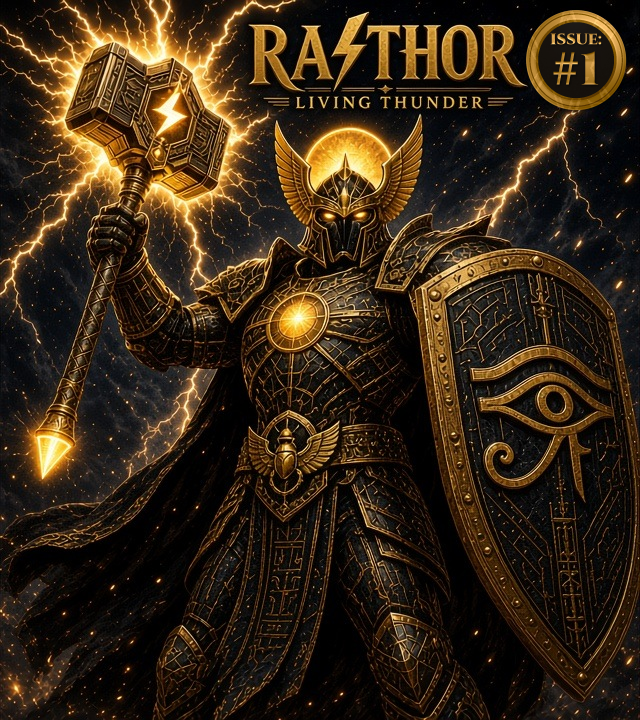
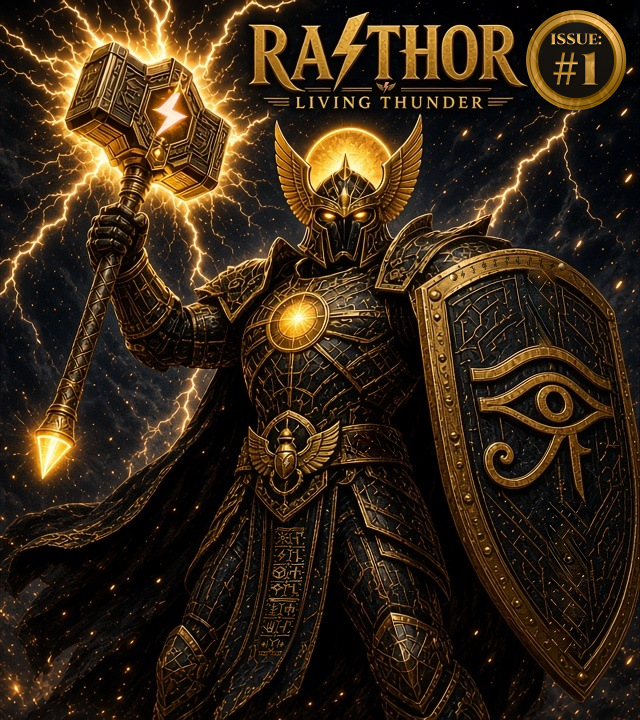
ISSUE01-COVER-MARK-1: winged-bolt cover mark, artifact sweep, tabard Easter egg (#88)
* ISSUE01-COVER-MARK-1: winged-bolt cover mark, artifact sweep, tabard Easter egg

- Replace BIBLE_FINAL_master.png and the 300 dpi print (same filenames) with the
  cover-mark + artifact-sweep + tabard v5 version (Sherif: mark 1:26 AM ET, 'Excellent!' 2:10 AM ET)
- Add production/ISSUE_01/bible/cover_mark/ (mark, gold AGI logo, rune key, before/after crops)
- BIBLE_FINAL_SHA256.txt: new hashes, previous master/print kept as superseded comments
- CHARACTER_BIBLE.md: §4 cover mark + publisher logo; §8 artifact-sweep rulings + Easter-egg cipher

* ISSUE01-COVER-MARK-1: rebuild print without mirrored shield in the bleed

The v2 extension mirrored the master's edge pixels, so the shield rim (right edge), cape, hammer pommel glow
and lightning (left edge) and the legs/shield tip (bottom) were reflected into the extension and bleed.
The print is rebuilt with sky-only extensions; the art area is unchanged (straight upscale).
New print sha256 2f92504c…; BIBLE_FINAL_SHA256.txt updated (superseded lines kept).

* ISSUE01-COVER-MARK-1: frame the print with lotus-capital gold columns (Wild ruling)

- Print file (same filename): two antique-gold lotus-capital columns (visible shaft ~122 px, ~6.1% of trim)
  with a bottom lintel; top left open and feathered. Shield, hammer haft + pommel and the ISSUE #1 seal stay
  in front; lightning glow over the left column; warm upper-left light; graded to the title gold.
[…]

diff --git a/production/ISSUE_01/bible/CHARACTER_BIBLE.md b/production/ISSUE_01/bible/CHARACTER_BIBLE.md
@@ -10,9 +10,9 @@
 |---|---|
 | Master | `BIBLE_FINAL_master.png` (640 × 720 px) |
 | Source render | `real_v1.jpg` (640 × 720 px), kept unchanged as the provenance file |
-| Difference from the source | Two edits only, checked pixel by pixel. (1) The issue seal (about x 518–633, y 2–117): the rayed-sun seal was removed, the sky patched, and the Cinzel gold-coin `ISSUE: #1` seal placed. (2) A stray diamond sparkle above the T of THOR (about x 370–389, y 11–24) was removed at Sherif's request (2026-10-15, about 1:23 AM ET). Every other pixel is identical to `real_v1.jpg`. |
-| Print file | `RaThor_Issue01_Cover_BIBLE_FINAL_6.625x10.25_bleed_300dpi.jpg`: 2063 × 3150 px at 300 dpi (6.625 × 10.25 in trim plus 0.125 in bleed). The art fills the trim width. The dark storm is extended above and below by mirroring, blurring and darkening. There are no cream bands, nothing is stretched, and nothing is cropped from the sides. |
-| Checksums | `BIBLE_FINAL_SHA256.txt`. The three image files in this folder verify with `sha256sum -c` (also with `--strict`). `BIBLE_FINAL_compare.jpg` and the four `real/*.py` build scripts are listed only as comment lines, marked "(held outside repo, in the bot store issue01_bible/)". |
+| Difference from the source | (Before ISSUE01-COVER-MARK-1.) Two edits only, checked pixel by pixel. (1) The issue seal (about x 518–633, y 2–117): the rayed-sun seal was removed, the sky patched, and the Cinzel gold-coin `ISSUE: #1` seal placed. (2) A stray diamond sparkle above the T of THOR (about x 370–389, y 11–24) was removed at Sherif's request (2026-10-15, about 1:23 AM ET). Every other pixel is identical to `real_v1.jpg`. ISSUE01-COVER-MARK-1 (2026-10-15) then added the winged-bolt cover mark (§4), the council artifact-sweep fixes and the tabard Easter egg (§8); before/after crops are in `cover_mark/`. |
+| Print file | `RaThor_Issue01_Cover_BIBLE_FINAL_6.625x10.25_bleed_300dpi.jpg`: 2063 × 3150 px at 300 dpi (6.625 × 10.25 in trim plus 0.125 in bleed). The art fills the trim width. The dark storm is extended above and below, and into the side bleed, with sky only (blurred reflected sky, plus sky-plate smoke, sparks and lightning). No figure part (shield, cape, hammer, legs) is ever mirrored into the extension. The art area is a straight upscale of the master. There are no cream bands, nothing is stretched, and nothing is cropped from the sides. |
+| Checksums | `BIBLE_FINAL_SHA256.txt`. Every image file in this folder and in `cover_mark/` verifies with `sha256sum -c --strict`; the pre-COVER-MARK-1 master and print hashes are kept as commented "superseded" lines. `BIBLE_FINAL_compare.jpg` and the four `real/*.py` build scripts are listed only as comment lines, marked "(held outside repo, in the bot store issue01_bible/)". |
 | Style | Realistic, highly detailed painted style. Chosen by Sherif on 2026-10-15 at 1:08 AM ET. As relayed: "we have the technology, why make only cartoons". |
 
 ## 2. The hero's look
@@ -35,7 +35,10 @@
 
 - **Title:** RA⚡THOR / LIVING THUNDER. There is no ornament, sparkle or diamond over the T (or any other letter) of THOR.
 - **Seal:** the Cinzel gold-coin seal, reading `ISSUE:` over a large `#1`. It has a dark centre and an antique-gold ring, and its gold matches the title's metal.
-- **Palette:** obsidian, antique gold and white-hot gold. Rose gold is used ONLY for bolts (the buckle bolt, the hammer-face bolt and the title bolt).
+- **Cover mark:** the winged bolt (the app-icon rose-gold circuit Z bolt between two swept antique-gold wings, with no disc) is the standard mark, centred in the divider under RA-THOR on every cover. Size: about 1–1.2× the cap height of LIVING THUNDER; each wing at most 3× the bolt width. Reference: `cover_mark/winged_bolt_mark_large.png` (zoom: `cover_mark/mark_final_zoom.jpg`). Chosen by Sherif, 2026-10-15, 1:26 AM ET.
+- **Publisher logo:** the Autonomicity Games Inc. logo goes on the spine and the credits page in title gold. Its shape is trademarked and is never altered; only the colour is changed to gold. Reference: `cover_mark/agi_logo_gold_large.png`. Chosen by Sherif, 2026-10-15, 1:26 AM ET.
+- **Cover frame:** pillar border (2026-10-15) withdrawn; superseded by the fresh full-cover card ISSUE01-COVER-FRESH-1.
+- **Palette:** obsidian, antique gold and white-hot gold. Rose gold is used ONLY for bolts (the buckle bolt, the hammer-face bolt, the title bolt and the cover-mark bolt).
 - **Avoid:** blue, navy and green, anywhere. The reason is distinctness from an existing third-party robot character with a similar name; per the `03` Derivation rule it is not named here.
 
 ## 5. The rule
@@ -75,6 +78,23 @@ Wild council AMEND ruling on PR #87, as relayed:
 - **(b) Shoulder seal.** The shoulder seal is dropped; the master shows none. This supersedes the 9:22 PM ruling (and D29's reading).
 - **(c) Images in the repo.** Images are allowed in the repo ONLY under `production/ISSUE_01/bible/`, as an exception to `04`'s "Images are not stored in this repo" header (D27). The v17 design reference (`production/ISSUE_01/art/cover_v17_reference.jpg`) was removed as superseded.
 - **(d) Deferred.** Fixing the conflicts in `00` rule 1, `09` and `ISSUE_01_PRODUCTION.md` (section 9) is deferred to a follow-up card.
+
+### Artifact-sweep rulings (council, applied in ISSUE01-COVER-MARK-1)
+
+Before/after crops at 4×: `cover_mark/before_after_1.jpg` … `before_after_6.jpg`; whole-cover comparison: `cover_mark/cleanup_compare.jpg`.
+
+- **Shield face:** clean. The gold Eye of Horus is its ONLY symbol. The trident spike and the glyph ladder are removed (`before_after_2`).
+- **Belt band:** shows plain lattice, with no symbols (`before_after_4`).
+- **Scarab:** carries a small rose-gold bolt (`before_after_5`).
+- **Hammer face:** its bolt is rose gold (`before_after_6`).
+- **Shield rim and tabard:** see the Easter egg below (`before_after_1`, `before_after_3`).
+
+### Easter egg: tabard and shield-rim cipher
+
+- **Tabard:** 8 icons: sun, Z-bolt, hex lattice node, stepped hammer, bar, wheat, open palm, sprout. Plus runes spelling **RATHOR**, with card-suit filler (hearts, diamonds, spades, clubs). All in lustrous gold, bending with the folds of the cloth. TOLC was dropped at this size (tabard v5, Sherif "Excellent!", 2026-10-15, 2:10 AM ET).
+- **Shield rim:** reads **[bolt] P O W R U S H [bolt]** in the same cipher.
+- **Decoder key:** `cover_mark/runes_key.png`. It is an invented angular rune alphabet in which every rune shares a centre stave. Its glyphs map, left to right, to R, A, T, H, O, L, C, P, W, U, S, and "." is the separator. The key lives in this Bible ONLY. It is never printed on the cover.
+- **Off-limits on the tabard, rim and belt:** the Eye of Horus (it appears on the shield face only), logos, readable Latin text, ™ or ® marks, and blue, navy or green.
 
 ## 9. Conflicts with standing canon (deferred to a follow-up card per 8 (d); not edited here)
 
